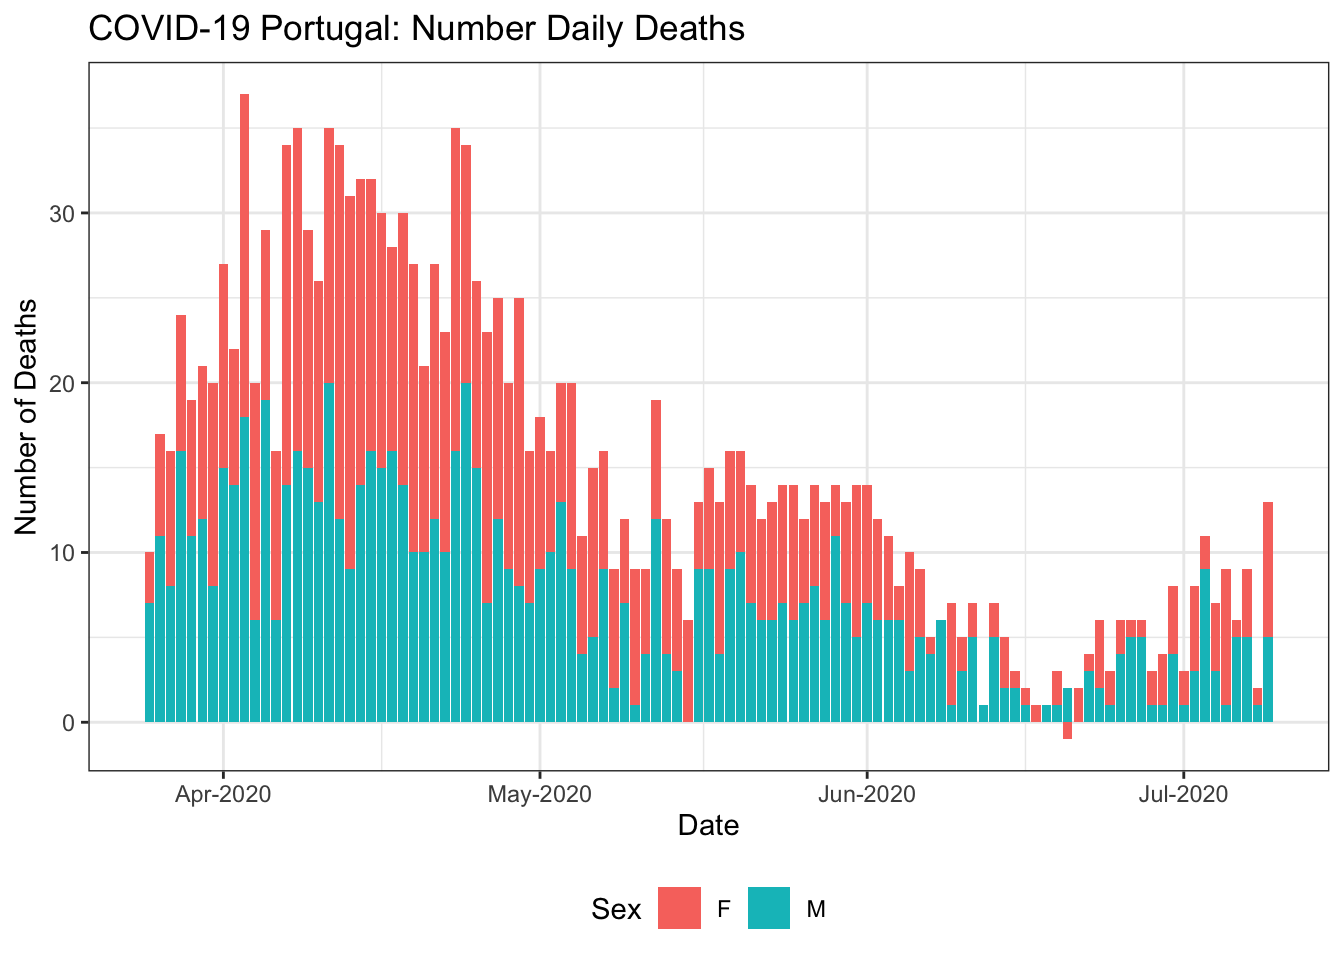
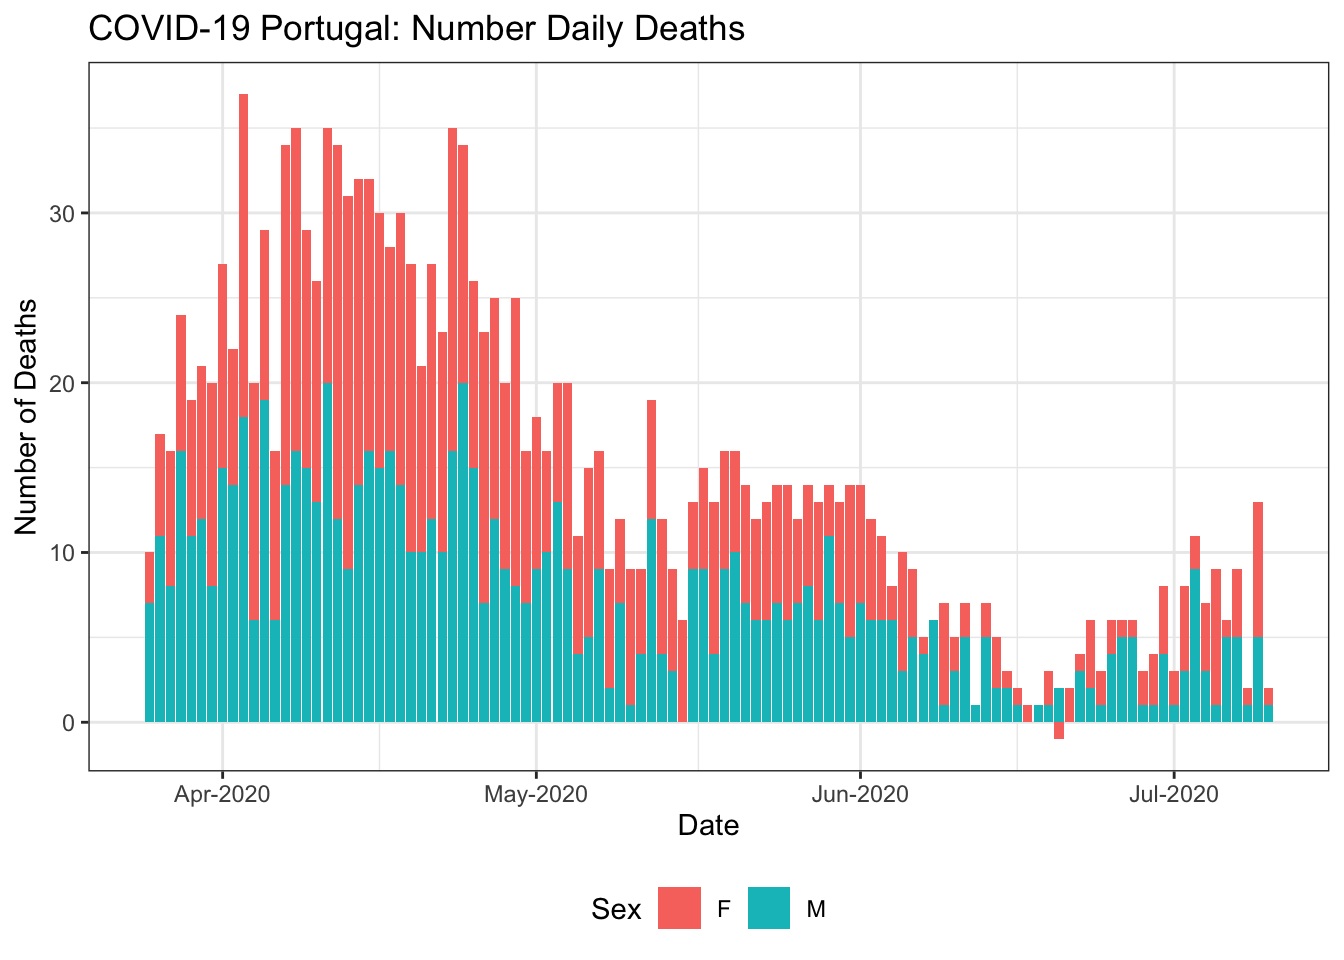
Data Update & Re-build README.Rmd

diff --git a/README.md b/README.md
@@ -1,9 +1,9 @@
 
 ## Daily Portuguese COVID-19 Data
 
-**Last updated: Fri 10 Jul 2020 (03:25:24 UTC \[+0000\])**
+**Last updated: Fri 10 Jul 2020 (15:27:24 UTC \[+0000\])**
 
-  - Data available from **26 Feb 2020** until **09 Jul 2020** (135
+  - Data available from **26 Feb 2020** until **10 Jul 2020** (136
     days).
 
 ### Download User Friendly Version
@@ -48,7 +48,7 @@ suppressPackageStartupMessages(library(here)) # library(here)
 # Read in data as a data.frame and data.table object.
 CV <- fread(here("data", "covid19pt_DSSG_Long.csv"))
 str(CV)
-## Classes 'data.table' and 'data.frame':   11340 obs. of  12 variables:
+## Classes 'data.table' and 'data.frame':   11424 obs. of  12 variables:
 ##  $ data       : chr  "2020-02-26" "2020-02-27" "2020-02-28" "2020-02-29" ...
 ##  $ origVars   : chr  "cadeias_transmissao" "cadeias_transmissao" "cadeias_transmissao" "cadeias_transmissao" ...
 ##  $ origType   : chr  "cadeias" "cadeias" "cadeias" "cadeias" ...
@@ -111,7 +111,7 @@ CV[origType=="confirmados" & ageGrp=="" & region!="Portugal"] %>%
     y = "Number of Confirmed Cases",
     colour = "Region")
 ## Warning: Transformation introduced infinite values in continuous y-axis
-## Warning: Removed 119 row(s) containing missing values (geom_path).
+## Warning: Removed 120 row(s) containing missing values (geom_path).
 ```
 
 <img src="README_figs/README-casesbyRegion-1.png" width="672" />
@@ -140,9 +140,9 @@ CV[dailyChange<0 & !(origType %in% c("vigilancia", "internados"))][
 ##   4: 2020-03-24 confirmados   confirmados_40_49_f   224          -2
 ##   5: 2020-03-19 confirmados   confirmados_60_69_f    35         -14
 ##  ---                                                               
-## 152: 2020-05-23      obitos      obitos_arscentro   230          -3
-## 153: 2020-07-03      obitos      obitos_arscentro   248          -1
-## 154: 2020-06-20      obitos              obitos_f   768          -1
-## 155: 2020-05-21 transmissao transmissao_importada   767          -3
-## 156: 2020-07-05 transmissao transmissao_importada   767      -40295
+## 153: 2020-05-23      obitos      obitos_arscentro   230          -3
+## 154: 2020-07-03      obitos      obitos_arscentro   248          -1
+## 155: 2020-06-20      obitos              obitos_f   768          -1
+## 156: 2020-05-21 transmissao transmissao_importada   767          -3
+## 157: 2020-07-05 transmissao transmissao_importada   767      -40295
 ```
